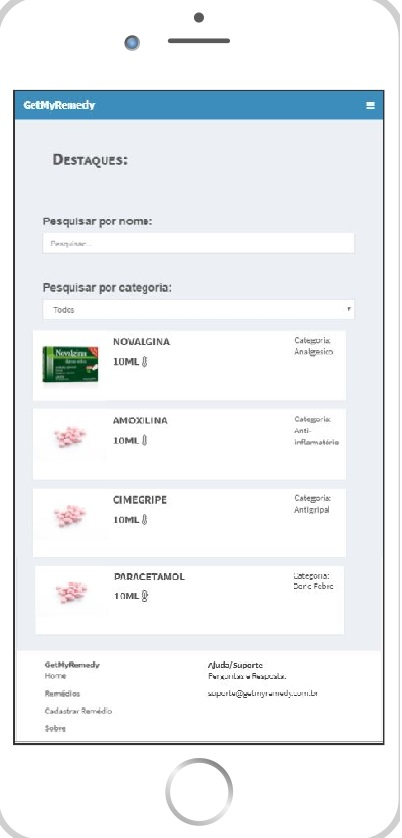
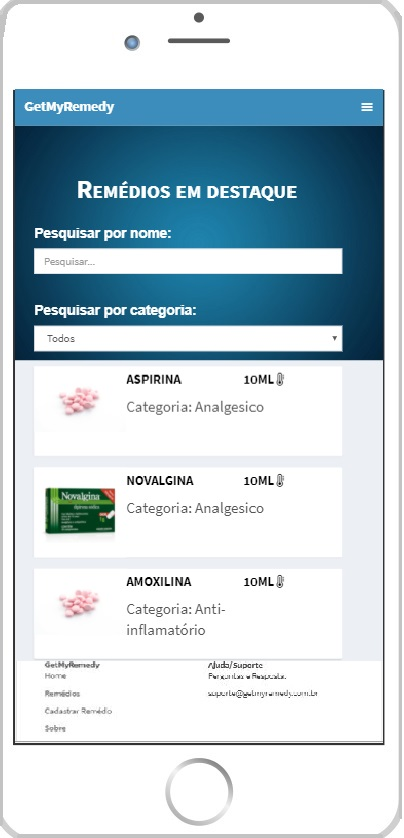
alteraçao layout pagina principal

diff --git a/src/styles.css b/src/styles.css
@@ -68,6 +68,10 @@ body {
 
 .background-image-custom{
   background-image: url('./assets/img/backImages/background.jpg');
+
+}
+.background-image-custom-shadow{
+  background:#0b426080;
 }
 
 .background-image-custom-smartphone{
@@ -87,7 +91,6 @@ body {
   height: 400px;
   overflow:auto;
 }
-
 .background-image-custom-background-login{
   background-image: url("./assets/img/backImages/background-login.jpg");
   background-repeat: no-repeat;
@@ -136,10 +139,38 @@ body {
 }
 
 /*Separação por resoluções ---------------------------------------------------------------------------------------------------*/
-@media screen and (min-width: 1400px) {
+@media screen and (max-width: 2400px) {
+  .background-image-custom-background-login{
+    background-image: url("./assets/img/backImages/background-login2400.jpg");
+  }
+}
+
+@media screen and (max-width: 1900px) {
+  .background-image-custom-background-login{
+    background-image: url("./assets/img/backImages/background-login1900.jpg");
+  }
   .content-custom{
     min-height: 120px;
-    margin-top: 170px;
+    margin-top: 160px;
+    margin-left:130px;
+  }
+}
+
+@media screen and (max-width: 1600px) {
+  .background-image-custom-background-login{
+    background-image: url("./assets/img/backImages/background-login1600.jpg");
+  }
+  .content-custom{
+    min-height: 120px;
+    margin-top: 165px;
+    margin-left:130px;
+  }
+}
+
+@media screen and (max-width: 1400px) {
+  .content-custom{
+    min-height: 120px;
+    margin-top: 132px;
     margin-left:130px;
   }
 
@@ -594,7 +625,7 @@ body {
     display: block;
     font-size: 20px;
     margin-bottom: 5px;
-    width: 100%;
+    width: 50%;
     }
     .custom-color-white{
       margin-top: 20px;
@@ -631,7 +662,7 @@ body {
     display: block;
     font-size: 20px;
     margin-bottom: 5px;
-    width: 100%;
+    width: 50%;
     }
   .content {
     min-height: 230px;
@@ -667,7 +698,7 @@ body {
     background-repeat: no-repeat;
     background-size: 100%;
     max-width: 100%;
-    height: 250px;
+    height: 330px;
     overflow: auto;
   }
   .background-image-custom-cold-bear {
@@ -907,6 +938,12 @@ body {
     margin-top: 10px;
     margin-bottom: 20px;
     margin-left: -15px;
+  }
+  .place-info-box-detail {
+    display: block;
+    font-size: 15px;
+    margin-bottom: 5px;
+    width: 50%;
   }
 }
 

diff --git a/src/app/app.component.html b/src/app/app.component.html
@@ -25,11 +25,13 @@
   </div>
 
   <div *ngIf="router.url == '/'">
-    <div class="content-wrapper background-image-custom">
-        <div class="container">
+      <div class="background-image-custom">
+        <div class="content-wrapper background-image-custom-shadow">
+          <div class="container">
 
-          <gmr-home></gmr-home>
+            <gmr-home></gmr-home>
 
+        </div>
       </div>
     </div>
   </div>

diff --git a/src/app/app.api.ts b/src/app/app.api.ts
@@ -1,1 +1,1 @@
-export const GMR_API = "http://localhost:4000"
+export const GMR_API = "http://172.98.194.188:4000"
